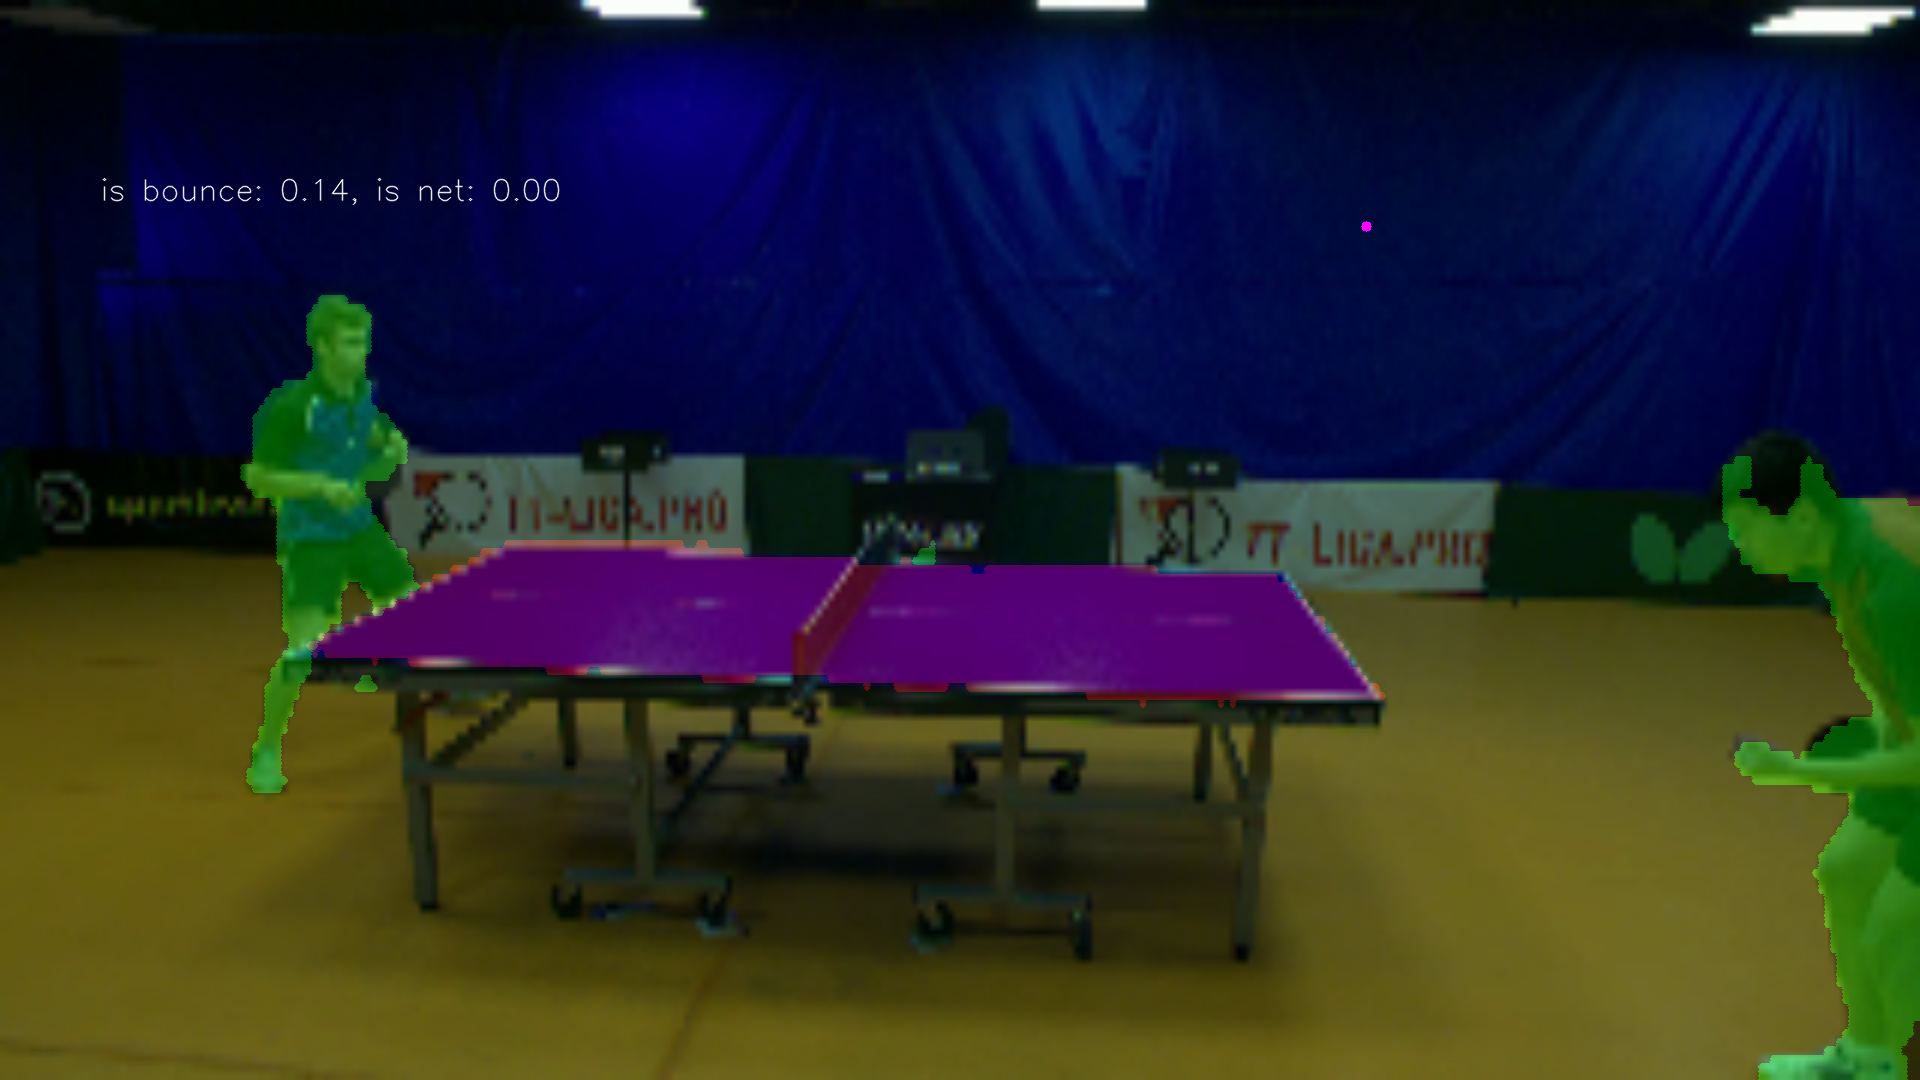
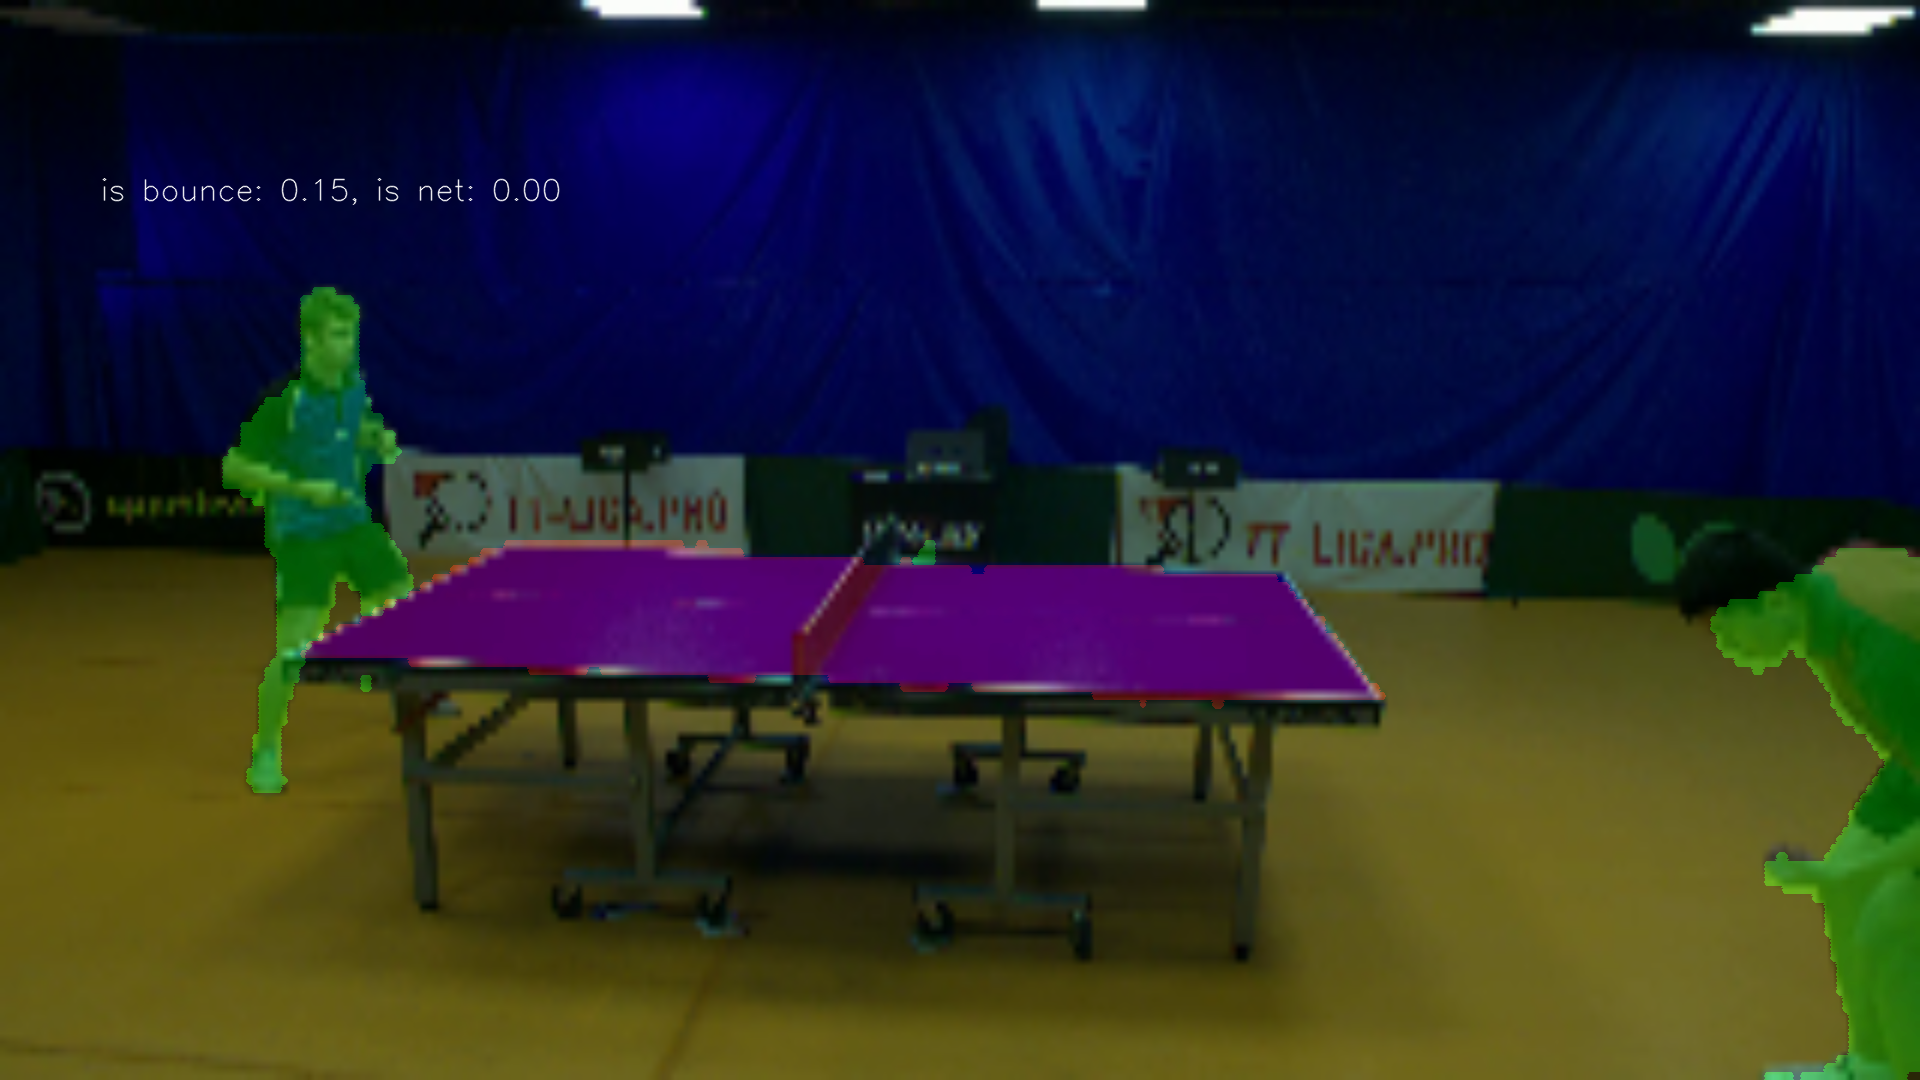
before i test removing queue_frames

diff --git a/src/video_to_json.py b/src/video_to_json.py
@@ -72,7 +72,7 @@ def process_video(configs):
                     ploted_img = cv2.circle(ploted_img, prediction_ball_final, 10, (255,0,0), 2)
                     cv2.imshow('ploted_img', ploted_img)
                     # cv2.imwrite('ploted_img.png', ploted_img)
-                    cv2.waitKey(10)
+                    cv2.waitKey(0)
                     # time.sleep(0.01)
                 # if configs.save_demo_output:
                 #     cv2.imwrite(os.path.join(configs.frame_dir, '{:06d}.jpg'.format(frame_idx)), ploted_img)
@@ -88,7 +88,7 @@ def process_video(configs):
 
 def plot_detection(img, ball_pos, seg_img, events):
     """Show the predicted information in the image"""
-    # img = cv2.addWeighted(img, 1., seg_img * 255, 0.3, 0)
+    img = cv2.addWeighted(img, 1., seg_img * 255, 0.3, 0)
     img = cv2.circle(img, tuple(ball_pos), 5, (255, 0, 255), -1)
     event_name = 'is bounce: {:.2f}, is net: {:.2f}'.format(events[0], events[1])
     img = cv2.putText(img, event_name, (100, 200), cv2.FONT_HERSHEY_SIMPLEX, 1, (255, 255, 255), 1, cv2.LINE_AA)
@@ -100,6 +100,6 @@ if __name__ == '__main__':
     configs = parse_configs()
     configs.video_path = "../dataset/test/videos/test_1_trimmed.mp4"
     configs.gpu_idx = 0
-    configs.pretrained_path = "../checkpoints/ttnet_1st_phase/ttnet_1st_phase_epoch_30.pth"
+    configs.pretrained_path = "../checkpoints/ttnet.pth"
     configs.show_image = True
     process_video(configs=configs)
